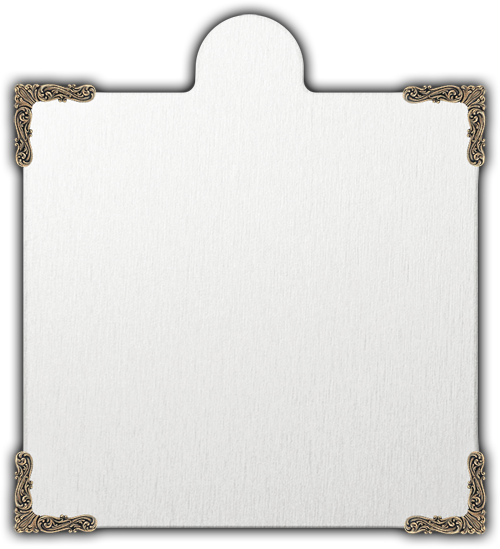
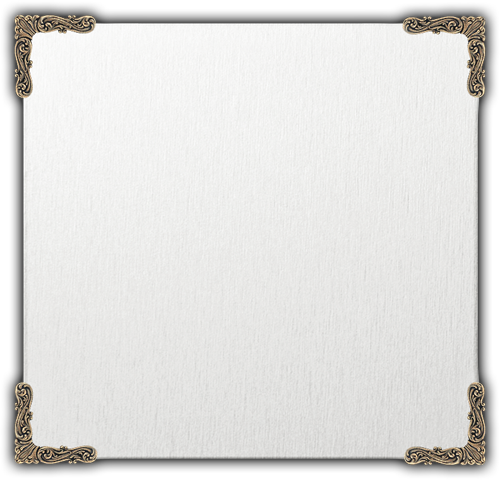
Integrated new menu art. Now scaling works well.

Changed region(s): [[0.0, 0.0, 0.99, 0.3125], [0.0, 0.7812, 0.99, 1.0]]

diff --git a/qml/mong/MenuBackground.qml b/qml/mong/MenuBackground.qml
@@ -1,0 +1,76 @@
+/*
+    Mong - A multi-touch pong-like game for MeeGo Tablets
+    Copyright (C) 2011 Cornelius Hald, Thomas Perl, Tim Samoff
+
+    This program is free software: you can redistribute it and/or modify
+    it under the terms of the GNU General Public License as published by
+    the Free Software Foundation, either version 3 of the License, or
+    (at your option) any later version.
+
+    This program is distributed in the hope that it will be useful,
+    but WITHOUT ANY WARRANTY; without even the implied warranty of
+    MERCHANTABILITY or FITNESS FOR A PARTICULAR PURPOSE.  See the
+    GNU General Public License for more details.
+
+    You should have received a copy of the GNU General Public License
+    along with this program.  If not, see <http://www.gnu.org/licenses/>.
+ */
+
+import Qt 4.7
+
+// MenuBackground including the power button. This background will scale to
+// almost any size without looking bad
+Item {
+    width:  500
+    height: 500
+
+    BorderImage {
+        id: basePanel
+        x: 0
+        y: 100
+        source: "img/menu/base.png"
+        border {
+            left: 100
+            top: 100
+            right: 100
+            bottom: 100
+        }
+        anchors.fill: parent
+        anchors.topMargin: 70
+    }
+
+    Image {
+        id: topPanelShadow
+        anchors.centerIn: topPanel
+        anchors.verticalCenterOffset: -27
+        source: "img/menu/base_top_shadow.png"
+    }
+
+    Image {
+        id: topPanel
+        anchors.bottom: basePanel.top
+        anchors.bottomMargin: -66
+        anchors.horizontalCenter: basePanel.horizontalCenter
+        source: "img/menu/base_top.png"
+    }
+
+    Image {
+        id: powerButtonOff
+        source: "img/menu/btn_power_off.png"
+        anchors.centerIn: topPanel
+        anchors.verticalCenterOffset: -5
+
+        Image {
+            id: powerButtonOn
+            source: "img/menu/btn_power_on.png"
+            opacity: powerButtonMouse.pressed ? 0 : 1
+            anchors.centerIn: parent
+        }
+
+        MouseArea {
+            id: powerButtonMouse
+            anchors.fill: parent
+            onClicked: Qt.quit()
+        }
+    }
+}

diff --git a/qml/mong/Menu.qml b/qml/mong/Menu.qml
@@ -79,19 +79,11 @@ Item {
         }
     }
 
-    BorderImage {
+    MenuBackground {
         id: background
 
-        source: "img/menu/base.png"
         anchors.fill: parent
         anchors.bottomMargin: 115
-
-        border {
-            left: 100
-            top: 100
-            right: 100
-            bottom: 100
-        }
 
         Item {
             id: mainMenuContainer
